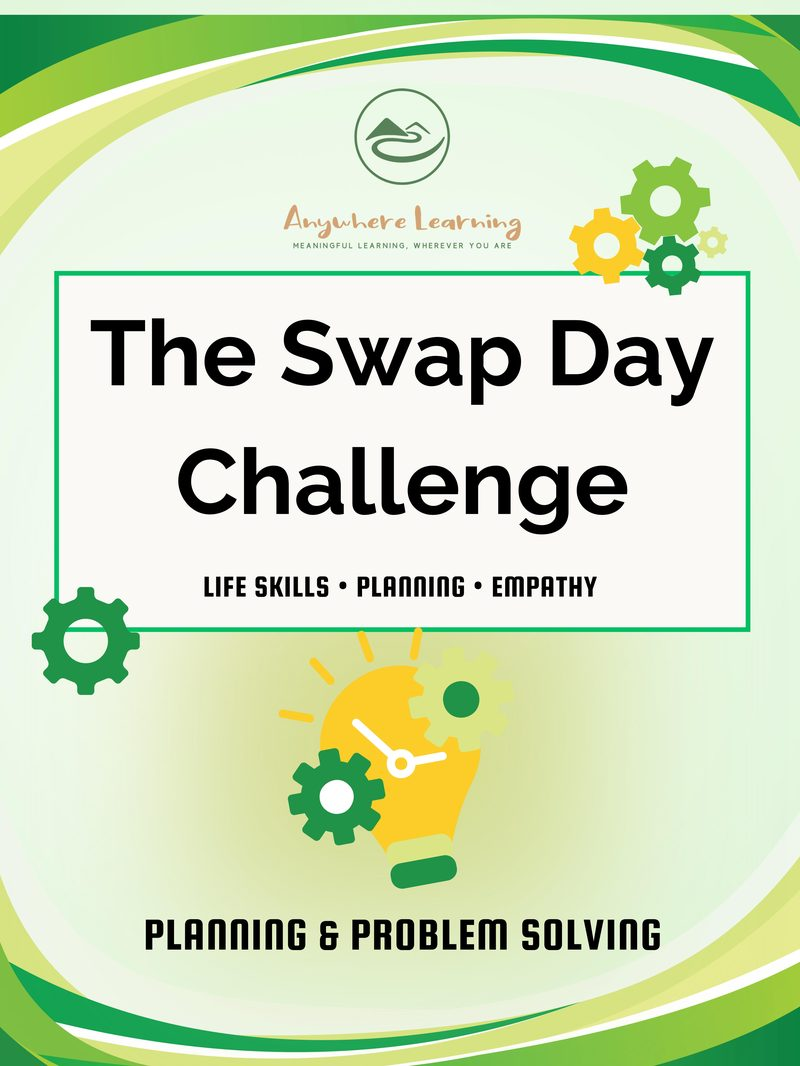
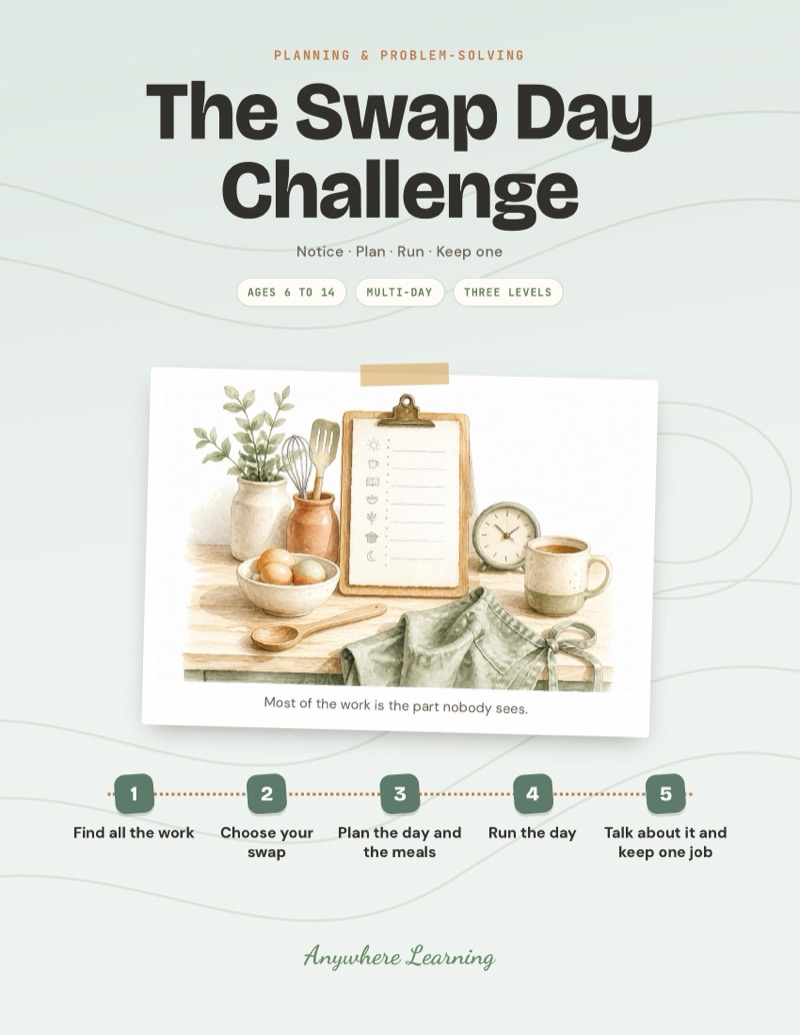
The Swap Day Challenge: redesigned guide, watercolour cover, new listing, self-management tag

diff --git a/scripts/seed.ts b/scripts/seed.ts
@@ -116,7 +116,7 @@ async function seed() {
     { name: 'Outdoor Survival Planner', slug: 'outdoor-survival-planner', description: 'Your child learns what to do when something goes wrong outside, the calm way. They pick a scenario like a lost trail or a storm, put the priorities in order, take stock of what is in the pack and practise real skills with you. Then they handle a twist and write the trip plan your family takes on its next outing.', shortDescription: 'Outdoor safety activity for kids ages 6-14: learn survival priorities, practise real skills and plan a real outing.', priceCents: 599, compareAtPriceCents: null, stripePriceId: '', blobUrl: '', imageUrl: '/products/outdoor-survival-planner.jpg', category: 'planning-problem-solving', isBundle: false, bundleProductIds: null, activityCount: null, ageRange: 'Ages 6–14', sortOrder: 134, active: true },
     { name: 'Pack Like a Pro', slug: 'pack-like-a-pro', description: 'Your child packs their own bag for a real trip. They work out what the trip actually needs, list everything they want, cut it down to fit real limits, then pack it and test it with some what-ifs. After the trip, they see what came home unused and build a packing list they can use year after year.', shortDescription: 'Life skill for kids ages 6-14: pack their own bag for a real trip, make real trade-offs and build a reusable list.', priceCents: 599, compareAtPriceCents: null, stripePriceId: '', blobUrl: '', imageUrl: '/products/pack-like-a-pro.jpg', category: 'planning-problem-solving', isBundle: false, bundleProductIds: null, activityCount: null, ageRange: 'Ages 6–14', sortOrder: 135, active: true },
     { name: 'Scavenger Hunt Designer', slug: 'scavenger-hunt-designer', description: 'Your child designs and runs a real scavenger hunt for the family. They pick a theme, scout the spots, write clues that make players think, map the route and set the rules. Then they test it, run the whole event from the welcome to the prize, and make it better for the next round.', shortDescription: 'Planning activity for kids ages 6-14: design and run a real scavenger hunt with original clues, a route and rules.', priceCents: 599, compareAtPriceCents: null, stripePriceId: '', blobUrl: '', imageUrl: '/products/scavenger-hunt-designer.jpg', category: 'planning-problem-solving', isBundle: false, bundleProductIds: null, activityCount: null, ageRange: 'Ages 6–14', sortOrder: 136, active: true },
-    { name: 'The Swap Day Challenge', slug: 'swap-day-challenge', description: 'Plan and run a swap day where you take on someone else\u2019s role or responsibilities.', shortDescription: 'Swap roles for a day.', priceCents: 599, compareAtPriceCents: null, stripePriceId: '', blobUrl: '', imageUrl: '/products/swap-day-challenge.jpg', category: 'planning-problem-solving', isBundle: false, bundleProductIds: null, activityCount: null, ageRange: 'Ages 6–14', sortOrder: 137, active: true },
+    { name: 'The Swap Day Challenge', slug: 'swap-day-challenge', description: 'Your child runs the house for a day or half a day while you work for them. They find all the work that keeps a home going, including the remembering and deciding nobody sees, then plan the day and the meals and handle what goes wrong. Afterwards they keep one job for good.', shortDescription: 'Life skills activity for kids ages 6-14: run the house for a day, see the invisible work and keep one job for good.', priceCents: 599, compareAtPriceCents: null, stripePriceId: '', blobUrl: '', imageUrl: '/products/swap-day-challenge.jpg', category: 'planning-problem-solving', isBundle: false, bundleProductIds: null, activityCount: null, ageRange: 'Ages 6–14', sortOrder: 137, active: true },
     { name: 'The What-If Scenario Lab', slug: 'what-if-scenario-lab', description: 'Explore hypothetical scenarios, predict outcomes, and plan responses.', shortDescription: 'Explore what-if scenarios.', priceCents: 599, compareAtPriceCents: null, stripePriceId: '', blobUrl: '', imageUrl: '/products/what-if-scenario-lab.jpg', category: 'planning-problem-solving', isBundle: false, bundleProductIds: null, activityCount: null, ageRange: 'Ages 8–14', sortOrder: 138, active: true },
     { name: 'What Would You Do? Decision Lab', slug: 'decision-lab', description: 'Work through real decision scenarios, weigh options, and justify choices.', shortDescription: 'Practise real-world decision-making.', priceCents: 599, compareAtPriceCents: null, stripePriceId: '', blobUrl: '', imageUrl: '/products/decision-lab.jpg', category: 'planning-problem-solving', isBundle: false, bundleProductIds: null, activityCount: null, ageRange: 'Ages 6–14', sortOrder: 139, active: true },
 

diff --git a/lib/product-descriptions.ts b/lib/product-descriptions.ts
@@ -2183,21 +2183,24 @@ export const productDescriptions: Record<string, ProductDescription> = {
   },
   'swap-day-challenge': {
     opening:
-      'Plan and run a swap day where kids take on someone else\'s role or responsibilities for a full day. A unique challenge that builds empathy, planning skills, and genuine appreciation for what the people around them do every day.',
+      'Your child runs the house for a day or half a day while you work for them. They find all the work that keeps a home going, including the remembering and deciding nobody sees, then plan the day and the meals and handle what goes wrong. Afterwards they keep one job for good.',
     whatsIncluded: [
-      'Swap day planning and execution guide',
-      'Role research and preparation activities',
-      'Schedule planning and logistics',
-      'Observation and empathy reflection prompts',
-      'Post-swap discussion and appreciation activities',
+      'A 5-step guide from finding the work to keeping one job',
+      'A worked example that shows what is inside one chore',
+      'Where to look card and The invisible work card',
+      'Swap rules card and Twists card',
+      'Swap Day plan to fill in and compare with the real day',
     ],
-    skillTags: ['Empathy', 'Planning', 'Life Skills', 'Responsibility', 'Reflection'],
+    skillTags: ['Life Skills', 'Planning', 'Empathy', 'Time Management', 'Responsibility'],
     insideTheLearning: {
       lead:
-        'Your child takes over a parent\'s role for a day, properly. The cooking, the cleaning, the scheduling, the whole thing. Most of the learning arrives about three hours in, when they realise how much of it was invisible to them.',
+        'Your child finds out what it takes to keep a home going, and most of it is the part nobody sees. They plan the day, make the calls, run it with you as the employee and then keep one job for good.',
       skills: [
-        { skill: 'Planning', where: 'Scheduling and sequencing a whole day of real responsibilities' },
-        { skill: 'Life Skills', where: 'Cooking, cleaning and household management, done for real rather than helped with' },
+        { skill: 'Planning', where: 'Scheduling the day and working out what has to happen first' },
+        { skill: 'Math', where: 'Elapsed time, portions and how long things really take' },
+        { skill: 'Empathy', where: 'Feeling what other people in the home carry' },
+        { skill: 'Problem-Solving', where: 'Deciding what comes first when two things clash' },
+        { skill: 'Life Skills', where: 'Cooking, cleaning and keeping one job for good' },
       ],
     },
     format: 'Project Guide',

diff --git a/lib/fallback-products.ts b/lib/fallback-products.ts
@@ -1936,15 +1936,15 @@ export const fallbackProducts: FallbackProduct[] = [
     name: "The Swap Day Challenge",
     slug: "swap-day-challenge",
     description:
-      "Plan and execute a swap day where kids take on someone else's role or responsibilities. Builds empathy, planning skills, and appreciation for what others do. A unique challenge that changes how kids see the people around them.",
+      "Your child runs the house for a day or half a day while you work for them. They find all the work that keeps a home going, including the remembering and deciding nobody sees, then plan the day and the meals and handle what goes wrong. Afterwards they keep one job for good.",
     shortDescription:
-      "Empathy activity for kids ages 6-14: swap roles for a day. Empathy through experience, low-prep and memorable.",
+      "Life skills activity for kids ages 6-14: run the house for a day, see the invisible work and keep one job for good.",
     priceCents: 599,
     compareAtPriceCents: null,
     stripePriceId: "price_1TLo8YAkIBECpwGmkzNQZEYe",
     blobUrl: "",
     imageUrl: "/products/swap-day-challenge.jpg",
-    previewFile: "Preview Planning & Problem-Solving The Swap Day Challenge.pdf",
+    previewFile: "Preview Planning & Problem-Solving The Swap Day Challenge v3.pdf",
     category: "planning-problem-solving",
     isBundle: false,
     bundleProductIds: null,

diff --git a/lib/activity-blob-urls.ts b/lib/activity-blob-urls.ts
@@ -123,7 +123,7 @@ export const ACTIVITY_BLOB_URLS: Record<string, string> = {
   "summer-outdoor-pack": "https://xkj3tzlgu6ylgllk.public.blob.vercel-storage.com/Outdoor%20Learning%20-%20Anywhere%20Learning%20Summer%20v2.pdf",
   "supply-chain-detective": "https://xkj3tzlgu6ylgllk.public.blob.vercel-storage.com/Entrepreneurship%20-%20Supply%20Chain%20Detective%20v2.pdf",
   "survival-base": "https://xkj3tzlgu6ylgllk.public.blob.vercel-storage.com/Creativity%20%26%20Maker%20Build%20a%20Survival%20Base%20for%20an%20Imaginary%20Expedition%20v5.pdf",
-  "swap-day-challenge": "https://xkj3tzlgu6ylgllk.public.blob.vercel-storage.com/Planning%20%26%20Problem-Solving%20The%20Swap%20Day%20Challenge%20v2.pdf",
+  "swap-day-challenge": "https://xkj3tzlgu6ylgllk.public.blob.vercel-storage.com/Planning%20%26%20Problem-Solving%20The%20Swap%20Day%20Challenge%20v3.pdf",
   "teach-it-to-learn-it": "https://xkj3tzlgu6ylgllk.public.blob.vercel-storage.com/Communication%20%26%20Writing%20-%20Teach%20It%20To%20Learn%20It%20v6.pdf",
   "theme-park": "https://xkj3tzlgu6ylgllk.public.blob.vercel-storage.com/Creativity%20%26%20Maker%20Create%20a%20Theme%20Park%20or%20Adventure%20Course%20v4.pdf",
   "three-ais-one-question": "https://xkj3tzlgu6ylgllk.public.blob.vercel-storage.com/AI%20%2B%20Digital%20Literacy%20-%20THREE%20AIs%2C%20ONE%20QUESTION%20v2.pdf",

diff --git a/lib/roadmap.ts b/lib/roadmap.ts
@@ -458,6 +458,7 @@ const SUPPLEMENTAL_TERRITORY_TAGS: Record<string, string[]> = {
   'outdoor-survival-planner': ['critical-thinking'],
   'pack-like-a-pro': ['critical-thinking'],
   'scavenger-hunt-designer': ['self-management', 'creativity'],
+  'swap-day-challenge': ['self-management'],
 };
 
 /**
